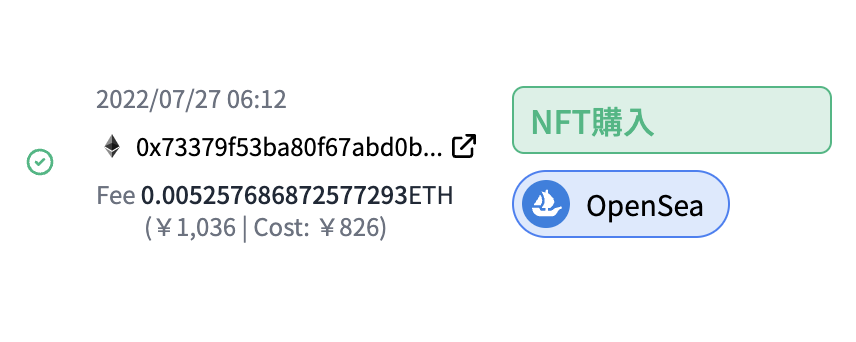
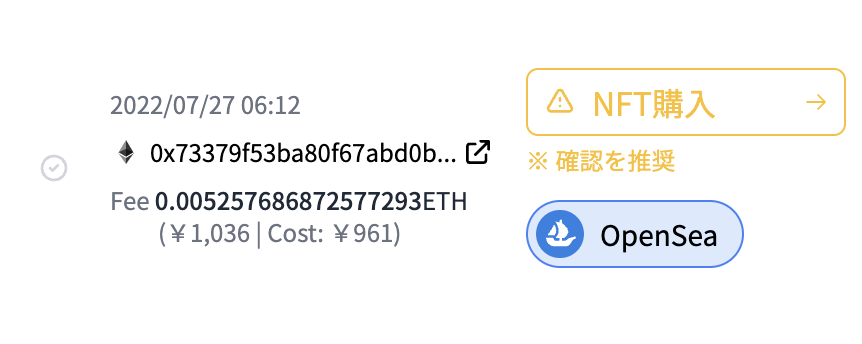
fixed some errors

diff --git a/docs/src/ja/guide/transaction-journal.md b/docs/src/ja/guide/transaction-journal.md
@@ -14,7 +14,10 @@
 
 そして **③手数料として支払ったトークン**に関しては、取引の中でも、ブロックチェーン上でのトランザクションでは共通してガス代がかかり、ブロックチェーン上でのトランザクションでないものには共通してかからない、ということになります。つまり、各取引に特有なのは **①取得したトークン**と **②喪失したトークン**の2つです。
 
-そこで各取引分類に関して、**取引の意味** を説明した後に、**損益計算**の項目の中で、**①取得したトークン**、**②喪失したトークン**、(「ウォレット間移動」の取引のみ **③移動したトークン** も)のそれぞれの損益計算を解説、という流れで説明します。
+そこで各取引分類に関して、**取引の意味**を説明した後に、**損益計算**の項目の中で、**①取得したトークン**、**②喪失したトークン**、(「ウォレット間移動」の取引のみ **③移動したトークン** も)のそれぞれの損益計算を解説、という流れで説明します。
+
+各取引分類について**損益計算**を解説しますが、上でも述べた通り、ブロックチェーン上のトランザクションには全てガス代がかかります。
+各取引分類で解説する**損益計算**の値から、ガス代として消費したトークンの時価を費用として引き、その結果がその取引の最終的な損益計算結果となります。
 
 
 ## 取引分類一覧
@@ -89,7 +92,7 @@
 
 トークン同士を交換（・売買）する取引です。
 
-※ 交換するトークンの種類は何個でも問題ありません
+※ 交換するトークンの種類は何個でも問題ありません。
 
 ### 損益計算
 
@@ -656,7 +659,7 @@ LP提供に対して付与された、いわゆる「LPトークン」です。
 
 ### 損益計算
 
-課税されます。
+自動で分類された4つの取引分類の種類に応じて課税されます。
 
 ## 実行失敗
 

diff --git a/docs/src/ja/guide/transaction-window.md b/docs/src/ja/guide/transaction-window.md
@@ -2,19 +2,15 @@
 
 ## 画面全体の見方
 
-<!-- DONE: 背景グレーになってないスクショに差し替え -->
 ![](../../assets/img/transaction-window-1.png)
 
 登録したアドレスの取引一覧が見られる画面です。
 
-<!-- DONE: ソートUIがが切れていないスクショに差し替え -->
 <br />
 <img src="../../assets/img/transaction-window-2.png" width="60%">
 
 <br />
 右上にある、「Datetime」のところを押すと、昇順か降順かでソートすることができます。デフォルトでは降順でソートされています。
-
-<!-- DONE: 背景グレーになってないスクショに差し替え -->
 ![](../../assets/img/transaction-window-3.png)
 
 また右上の「リスト」タブを押すとリスト形式で取引一覧を取得することができ、
@@ -39,7 +35,6 @@
 **取引分類が合っていれば、左にある小さなチェックマークをクリックしましょう。**
 そうすると下のように緑に変わります。
 
-<!-- DONE   : 背景グレーになってないスクショに差し替え -->
 <img src="../../assets/img/transaction-window-6.png" width="60%">
 
 **取引分類が間違っている、あるいは合っているかわからないときは,取引内容(上の図の場合は「NFT所得」)をクリックしましょう**
@@ -52,7 +47,6 @@
 
 #### ②高精度
 
-<!-- DONE: 背景グレーになってないスクショに差し替え -->
 <img src="../../assets/img/transaction-window-7.png" width="60%">
 
 「高精度」とは、CryptoVision独自のアルゴリズムで十分に高い確度で分類したので、あなたが確認する必要のない取引です。
@@ -63,7 +57,6 @@
 
 #### ③確認済
 
-<!-- DONE: 背景グレーになってないスクショに差し替え -->
 <img src="../../assets/img/transaction-window-6.png" width="60%">
 
 ①「要確認」にも掲載した図ですが、要確認の取引を「確認」すると、「確認済」のステータスになり、緑色になります。
